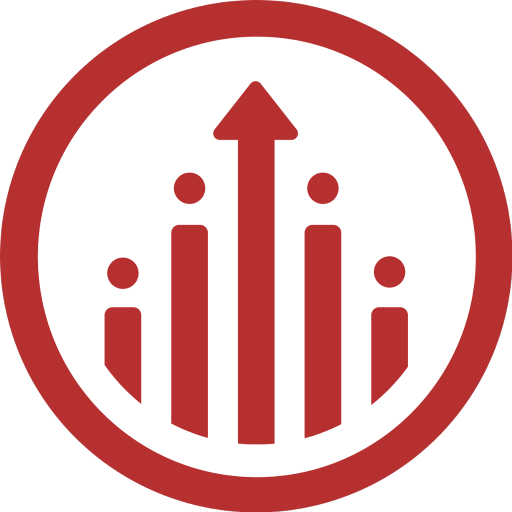
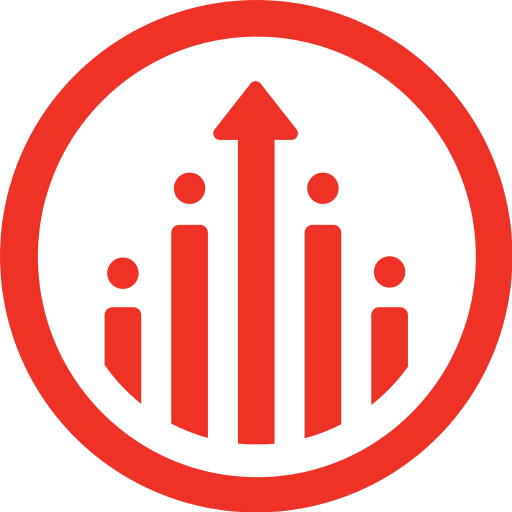
Client: Style - manifest.ts updated, main name changed

diff --git a/src/components/SvgIcons.tsx b/src/components/SvgIcons.tsx
@@ -20,26 +20,29 @@ export const LogoIcon = ({ size = 24 }) => (
   <svg
     width={size}
     height={size}
-    viewBox="0 0 495 511"
+    viewBox="0 0 392 392"
     fill="none"
     xmlns="http://www.w3.org/2000/svg"
   >
-    <ellipse cx="247.5" cy="255.5" rx="247.5" ry="255.5" fill="white" />
+    <circle cx="196" cy="196" r="196" fill="#EF3226" />
+    <circle cx="196" cy="196" r="167" fill="white" />
     <path
-      d="M255.712 105.205C255.599 101.974 252.945 99.4127 249.711 99.4149L191.209 99.455C187.815 99.4574 185.098 102.272 185.217 105.664L195.139 389.797C195.252 393.029 197.906 395.59 201.14 395.588L259.641 395.545C263.035 395.543 265.751 392.728 265.633 389.336L255.712 105.205Z"
-      fill="#BC2C22"
-    />
-    <path
-      d="M179.279 101.575C180.808 97.1358 184.985 94.1561 189.68 94.1562L244.891 94.1578C252.445 94.158 257.751 101.597 255.291 108.739L158.033 391.196C156.505 395.635 152.328 398.615 147.633 398.615L92.4225 398.616C84.8686 398.616 79.5624 391.177 82.0217 384.035L179.279 101.575Z"
+      d="M191.567 64.0116C193.569 61.4609 197.431 61.4609 199.433 64.0116L226.825 98.913C229.4 102.194 227.063 107 222.892 107H168.108C163.937 107 161.6 102.194 164.175 98.913L191.567 64.0116Z"
       fill="#EF3226"
     />
+    <rect x="182" y="106" width="28" height="234" fill="#EF3226" />
+    <rect x="131" y="172" width="28" height="168" rx="6" fill="#EF3226" />
+    <rect x="233" y="172" width="28" height="168" rx="6" fill="#EF3226" />
+    <rect x="80" y="235" width="28" height="95" rx="6" fill="#EF3226" />
+    <rect x="284" y="235" width="28" height="95" rx="6" fill="#EF3226" />
     <path
-      d="M368.874 108.041C368.671 102.113 363.804 97.4141 357.873 97.4182L309.377 97.4515C303.156 97.4558 298.177 102.612 298.391 108.829L307.976 387.997C308.18 393.922 313.042 398.62 318.97 398.62L367.466 398.62C373.689 398.62 378.673 393.462 378.459 387.243L368.874 108.041Z"
-      fill="#BC2C22"
+      d="M351.5 196.506C351.5 282.736 282.034 352.512 196.5 352.512C110.966 352.512 41.5 282.736 41.5 196.506C41.5 110.276 110.966 40.5 196.5 40.5C282.034 40.5 351.5 110.276 351.5 196.506Z"
+      stroke="white"
+      strokeWidth="25"
     />
-    <path
-      d="M292.591 101.575C294.12 97.1358 298.297 94.1561 302.992 94.1562L358.203 94.1578C365.757 94.158 371.063 101.597 368.603 108.739L271.345 391.196C269.817 395.635 265.64 398.615 260.945 398.615L205.734 398.616C198.181 398.616 192.874 391.177 195.334 384.035L292.591 101.575Z"
-      fill="#EF3226"
-    />
+    <circle cx="145" cy="144" r="12" fill="#EF3226" />
+    <circle cx="94" cy="209" r="12" fill="#EF3226" />
+    <circle cx="298" cy="208" r="12" fill="#EF3226" />
+    <circle cx="247" cy="144" r="12" fill="#EF3226" />
   </svg>
 );

diff --git a/src/app/manifest.ts b/src/app/manifest.ts
@@ -3,14 +3,19 @@ import type { MetadataRoute } from 'next';
 
 export default function manifest(): MetadataRoute.Manifest {
   return {
-    name: 'My Next.js PWA',
-    short_name: 'NextPWA',
-    description: 'An awesome Progressive Web App built with Next.js',
+    name: 'Monevo',
+    short_name: 'Monevo',
+    description: 'An awesome invetment tracker',
     start_url: '/',
-    display: 'standalone',
+    display: 'fullscreen',
     background_color: '#ffffff',
     theme_color: '#000000',
     icons: [
+      {
+        src: '/icon-192x192.png',
+        sizes: '192x192',
+        type: 'image/png',
+      },
       {
         src: '/icon-512x512.png',
         sizes: '512x512',

diff --git a/src/components/auth/LoginHeader.tsx b/src/components/auth/LoginHeader.tsx
@@ -2,10 +2,12 @@ import { LogoIcon } from "../SvgIcons";
 export function LoginHeader({ label }: { label: string }) {
   return (
     <section className="w-full flex flex-col items-center justify-center gap-1">
-      <section className="flex items-center">
-        
+      <section className="flex items-center justify-center gap-1 w-full relative h-12">
         <h1 className="text-2xl font-bold">Monevo</h1>
-        <LogoIcon size={48} />
+
+        <div className="top-0 right-0 absolute">
+          <LogoIcon size={46} />
+        </div>
       </section>
 
       <p className="text-muted-foreground text-sm text-slate-700/90">{label}</p>
